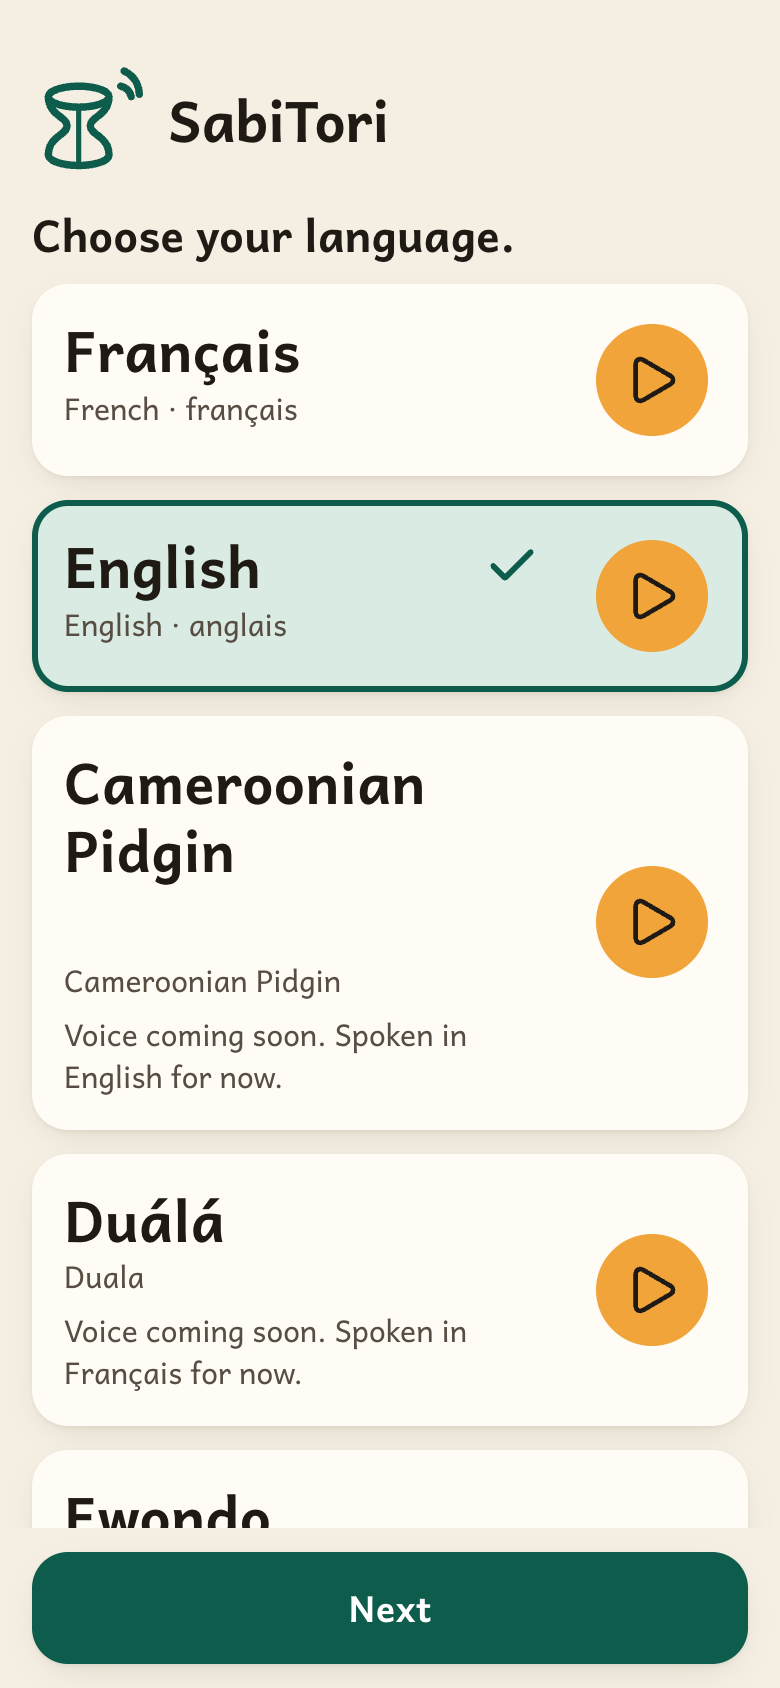
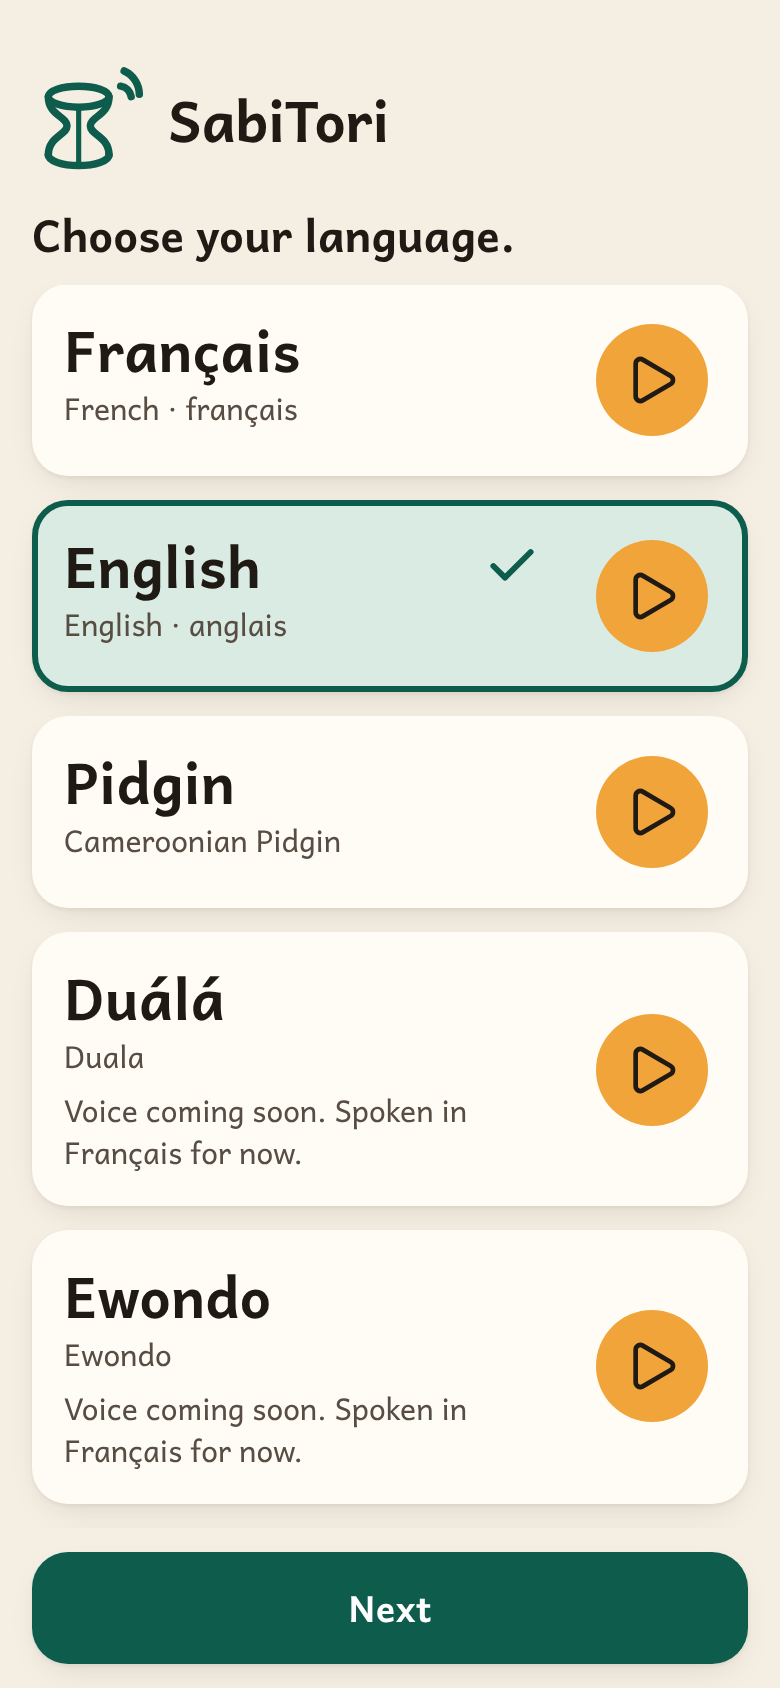
Landing: screenshots retaken from the current app
Claude-Session: https://claude.ai/code/session_01QJY27S5NjtgRohPjBUWx78

diff --git a/docs/dev/loop.md b/docs/dev/loop.md
@@ -360,6 +360,9 @@ bottom. People can reorder, add or strike items at any time; the loop re-reads t
       measured height: WCAG 2.2 focus not obscured). The audit now treats content scrolling under the sticky bar like
       under the dock (by design). Practice names at 200 % drop below their picture instead of breaking mid-word.
       Re-run: 163 states, 0 axe violations, 0 manual failures.
+- [x] **Landing screenshots follow the app again.** Retaken from the current build (English, 2x): talking-drum mark,
+      Home button, "Says: ENEO", stop sign on the scam row, Pidgin in the language list. The owner's demo video is
+      unchanged.
 
 ## Log
 
@@ -459,3 +462,4 @@ bottom. People can reorder, add or strike items at any time; the loop re-reads t
 | 2026-11-20 | #97 | Settings choices carry pictures (on/off, voice speed, keep messages) | local gate (Actions budget) |
 | 2026-11-20 | #98 | Practice examples carry pictures; screen titles never split mid-word | local gate (Actions budget) |
 | 2026-11-20 | #99 | Accessibility audit back to 0 failures after the sticky top bar (tall bar scrolls away, scroll padding) | local gate (Actions budget) |
+| 2026-11-20 | #100 | Landing screenshots retaken from the current app | local gate (Actions budget) |
